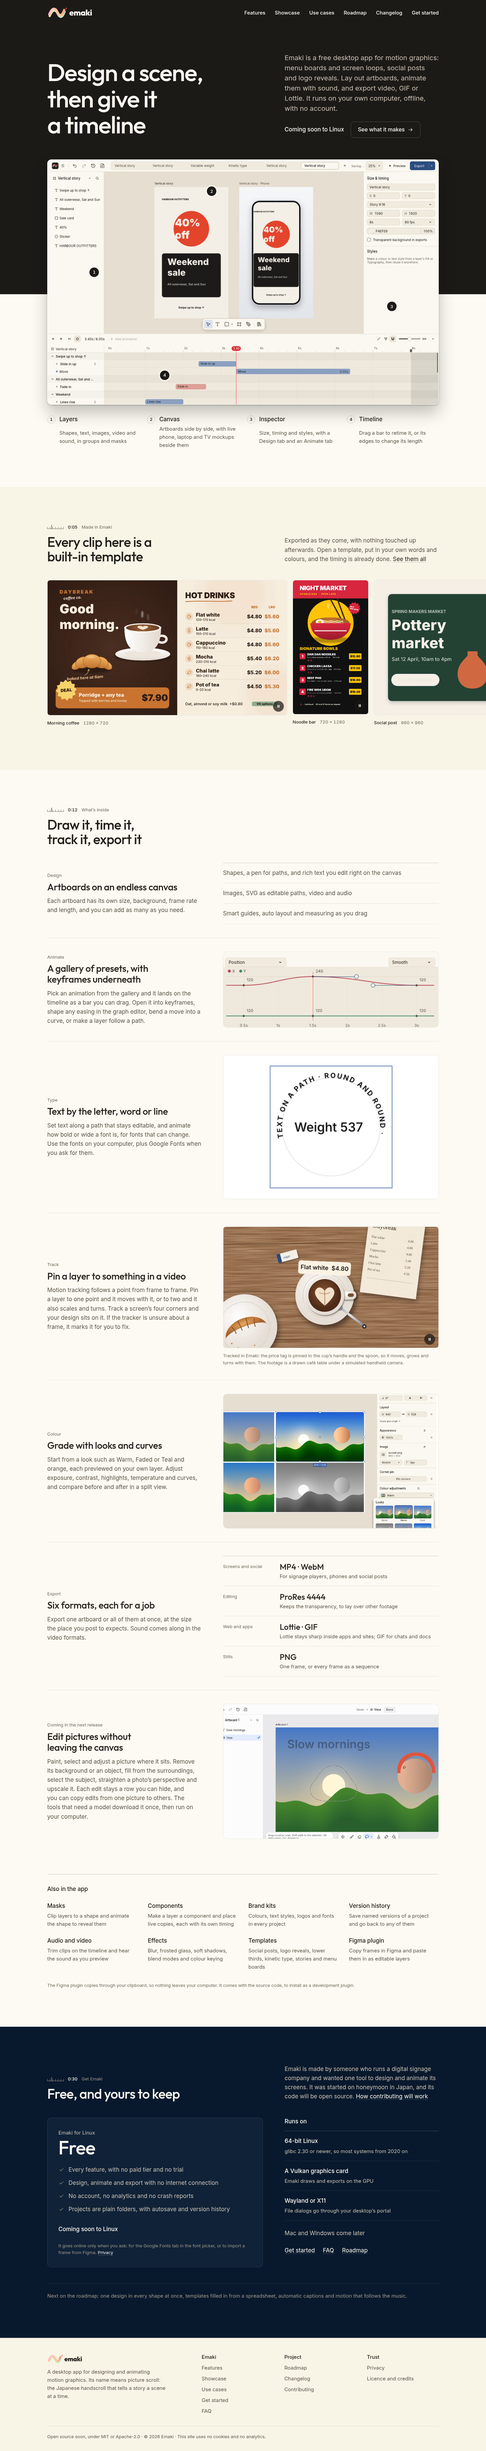
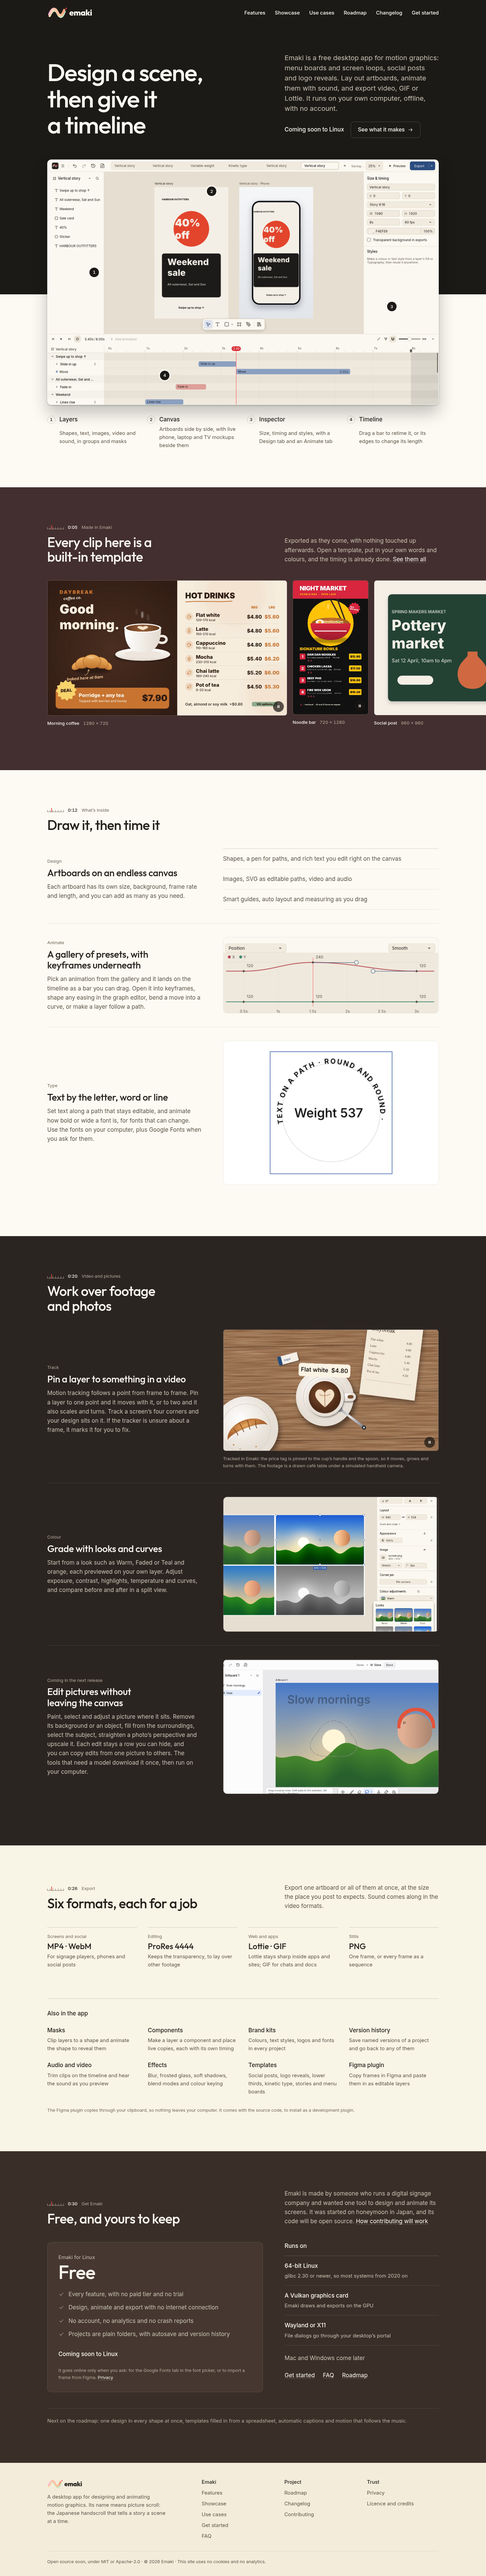
Unslop follow-up: band order and contrast; retake after screenshots
Claude-Session: https://claude.ai/code/session_01JCPfpm2a8BnAonXMXPfX45

diff --git a/docs/overhaul-unslop.md b/docs/overhaul-unslop.md
@@ -102,3 +102,25 @@ layout and visuals.
 7. **Details.** Nothing to change; radii already nest (10 controls, 12 cards).
 8. **Visuals.** Nothing to change (see the image-editing note above).
 9. **Motion.** Nothing to change.
+
+## Follow-up: warm bands and more rhythm (user feedback)
+
+The kachi-iro indigo clashed with the brown-black hero, and the light run in
+the middle was too long. Now every band is warm and they alternate:
+
+| Band | Tone | Colour |
+| --- | --- | --- |
+| Hero | dark | 墨 sumi, warmed, #1C1A17 |
+| Editor legend | light | 白練 shiro-neri #FCFAF2 |
+| Made in Emaki | dark | 黒鳶 kurotobi #432F2F |
+| What's inside: design, animate, type | light | 白練 shiro-neri #FCFAF2 |
+| Video and pictures: track, colour, image editing (coming) | dark | 檳榔子黒 binrōjiguro #2B2522 |
+| Export and "Also in the app" | light | 象牙色 zōge-iro #F8F4E6 |
+| Get Emaki | dark | 焦茶 kogecha, deepened, #3A2E28 |
+| Footer | light | 生成色 kinari-iro #F3ECDB |
+
+Checklist on the changed bands: three text roles per band (dark: #FCFAF2,
+#CBC3B4, #B8AE9E; light: #23201B, #5B5348, #6E6559), all at least 4.86:1;
+beni-hi stays a mark (the ruler's playhead), never text; akane is text only on
+light bands (5.3:1 or more); no cool colours left in the chrome; band edges are
+flat. Screenshots and crops keep their hairline frame and read on the dark bands.
